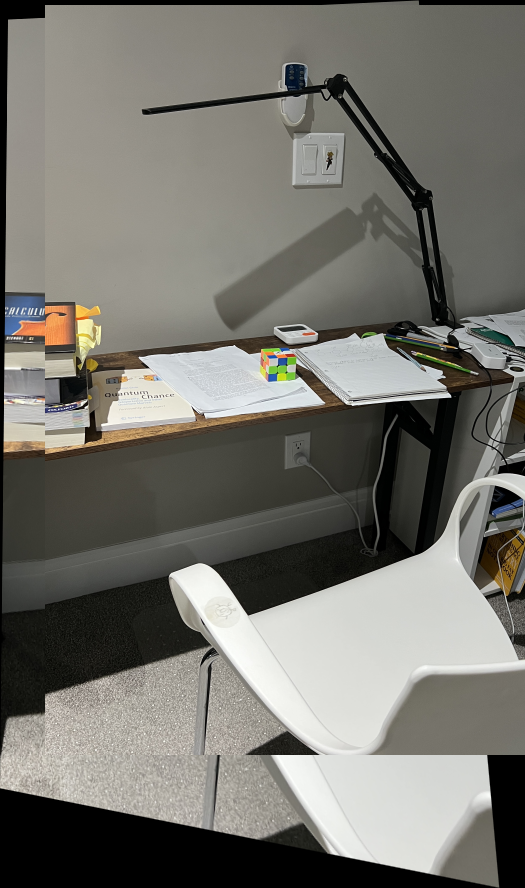
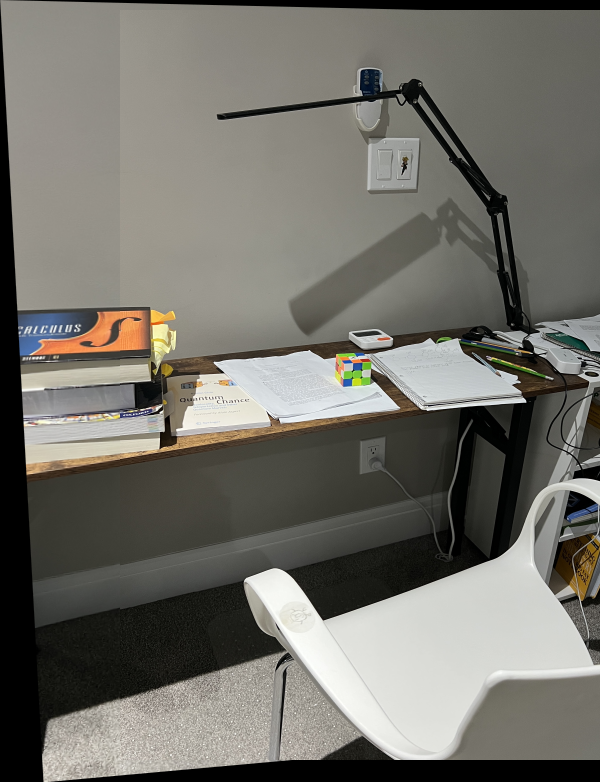
aaaaa why is this so hard

diff --git a/Hw2/panorama.py b/Hw2/panorama.py
@@ -3,6 +3,9 @@ import numpy as np
 import random
 from typing import Tuple, List, Optional
 
+random.seed(42) # random seed so that RANSAC results are always the same. set to 42 which is a common seed num
+np.random.seed(42)
+
 def create_panorama(im1: np.ndarray, im2: np.ndarray, is_fastr: bool = False) -> np.ndarray:
     keypoints_data = extract_and_match_keypoints(im1, im2)
     homography_matrix = find_best_homography(keypoints_data, is_fastr=is_fastr)
@@ -15,13 +18,12 @@ def extract_and_match_keypoints(im1: np.ndarray, im2: np.ndarray) -> List[List[f
 
 def detect_keypoints(img: np.ndarray) -> Tuple[List, np.ndarray]:
     gray_img = cv.cvtColor(img, cv.COLOR_BGR2GRAY)
-    orb_detector = cv.ORB_create()
+    orb_detector = cv.ORB_create() # use ORB method
     return orb_detector.detectAndCompute(gray_img, None)
 
 def match_keypoints(keypoints1: List, keypoints2: List, 
                    descriptors1: np.ndarray, descriptors2: np.ndarray) -> List[List[float]]:
-    matcher = cv.BFMatcher(cv.NORM_HAMMING, crossCheck=True)
-    matches = matcher.match(descriptors1, descriptors2)
+    matches = cv.BFMatcher(cv.NORM_HAMMING, crossCheck=True).match(descriptors1, descriptors2) # use BFMatcher to match descr
     matches = sorted(matches, key=lambda x: x.distance)
 
     matched_pts = []
@@ -50,8 +52,8 @@ def find_best_homography(matched_points: List[List[float]],
     if is_fastr == True:
         max_iterations = 5000
         distance_threshold: float = 5.0
-    else:
-        max_iterations = 2000
+    else: # it is FAST
+        max_iterations = 6000
         distance_threshold = 7.0
     
     best_inliers = []

diff --git a/Hw2/test.py b/Hw2/test.py
@@ -1,8 +1,8 @@
 import cv2 as cv
 from panorama import create_panorama
-left_img = cv.imread('S1-im1.png')
-right_img = cv.imread('S1-im2.png')
+left_img = cv.imread('IMG_1236.jpg')
+right_img = cv.imread('IMG_1237.jpg')
 result_img = create_panorama(left_img, right_img, is_fastr=True)
-result_img2 = create_panorama(left_img, right_img, is_fastr=False)
-cv.imwrite('result_fastr3.jpg', result_img)
-cv.imwrite('result_non_fastr3.jpg', result_img2)
+# result_img2 = create_panorama(left_img, right_img, is_fastr=False)
+cv.imwrite('gokuuuuu.jpg', result_img)
+# cv.imwrite('result_non_fastr3.jpg', result_img2)

diff --git a/Hw2/README.md b/Hw2/README.md
@@ -19,10 +19,13 @@ After I zipped all files, the file size was too big for the Coursys submission b
 The sources I used for this assignment are the following:
 
 For conceptual knowledge:
+- 361 YouTube lectures
 - https://en.wikipedia.org/wiki/Features_from_accelerated_segment_test
 - https://www.mathworks.com/help/vision/ug/feature-based-panoramic-image-stitching.html
 - https://docs.opencv.org/3.4/df/d0c/tutorial_py_fast.html
 - https://sbme-tutorials.github.io/2018/cv/notes/6_week6.html#harris-operator
+- https://stackoverflow.com/questions/29377683/why-ransac-gives-me-different-results-every-time-i-run-it-on-the-same-point-clou
+- https://towardsdatascience.com/random-sample-consensus-helps-you-filter-those-pesky-outliers-9dbfbb8b668f
 
 Learning Python OpenCV syntax:
 - https://www.geeksforgeeks.org/image-resizing-using-opencv-python/
